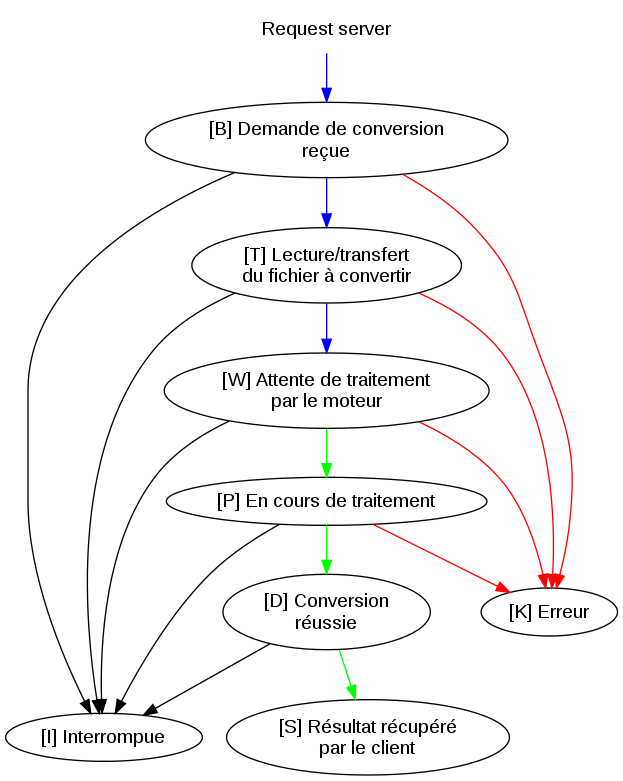
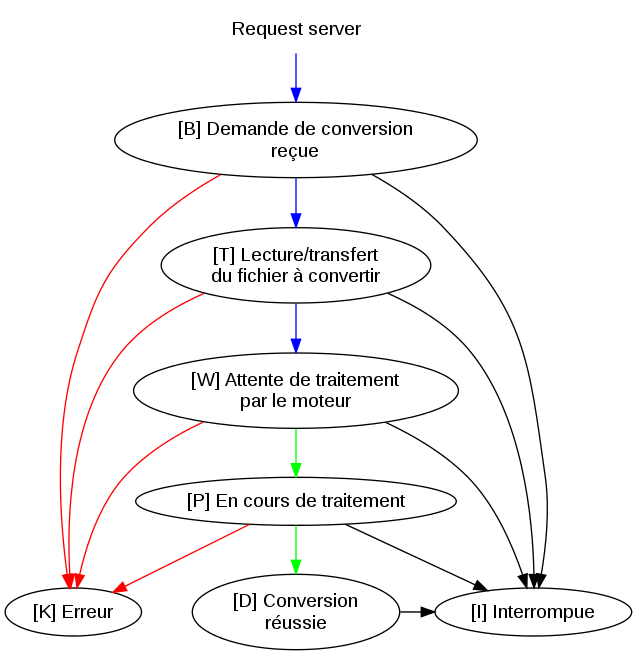
docs(TE): Document changes introduced by version 1.4.0 (refs #5374)

diff --git a/Contents/installation/configuration.md b/Contents/installation/configuration.md
@@ -21,7 +21,7 @@ Base de données
     # - - - - - - - - - - - - - - - - - -
     TE_PG_SERVICE="te"                # Postgresql database service name
 
-* `TE_PG_SERVICE` permet d'indiquer le [service d'accès à la base de données](#te-manex-ref:f6506413-f567-4b5f-b964-510570653886) *TE*
+* `TE_PG_SERVICE` : permet d'indiquer le [service d'accès à la base de données](#te-manex-ref:f6506413-f567-4b5f-b964-510570653886) *TE*
 
 Serveur de communication 
 :  
@@ -67,8 +67,13 @@ Identité pour les serveurs
     [bash]
     # -- Run TE servers as a user --
     TE_SERVER_USER=root
+    TE_SERVER_DEBUG=no
 
 * `TE_SERVER_USER` : permet de spécifier l'identité (unix user) sous laquelle les serveurs sont exécutés.
+* `TE_SERVER_DEBUG` : permet de rediriger (`yes` ou `no`) la sortie standard
+  (STDOUT) et d'erreur (STDERR) des serveurs te_request_server,
+  te_rendering_server, OpenOffice et Tika dans syslog (pour analyser les
+  éventuels problèmes de démarrage de ces services).
 
 Serveur OpenOffice.org 
 :   
@@ -77,9 +82,7 @@ Serveur OpenOffice.org
     # -- Server-mode OpenOffice.org parameters
     TE_OOO_SERVER_ENABLED=yes
     TE_OOO_BASE_DIR=/replace/me/with/path/to/openoffice.org/directory
-    TE_OOO_SERVER_PYTHON=${TE_OOO_BASE_DIR}/program/python
     TE_OOO_SERVER_SOFFICE=${TE_OOO_BASE_DIR}/program/soffice
-    TE_OOO_SERVER_UNOPKG=${TE_OOO_BASE_DIR}/program/unopkg
     TE_OOO_CLASSPATH="${TE_OOO_BASE_DIR}/program/classes/unoil.jar:${TE_OOO_BASE_DIR}/program/classes/juh.jar:${TE_OOO_BASE_DIR}/program/classes/jurt.jar:${TE_OOO_BASE_DIR}/program/classes/ridl.jar"
     TE_OOO_JVM_OPTS=""
     TE_OOO_SERVER_HOST=127.0.0.1
@@ -88,25 +91,61 @@ Serveur OpenOffice.org
 Les chemin d'accès aux fichiers OpenOffice.org sont relatifs.  
 Normalement vous ne devez que vous assurer que `TE_OOO_BASE_DIR` est correctement valué.  
 
-* `TE_OOO_BASE_DIR` : chemin d'accès au répertoire racine d'installation de OpenOffice
-* `TE_OOO_SERVER_PYTHON` : chemin d'accès à l'interpréteur Python de OpenOffice
-* `TE_OOO_SERVER_SOFFICE` : chemin d'accès au programme *soffice* de OpenOffice
-* `TE_OOO_SERVER_UNOPKG` : chemin d'accès au programme *unopkg* de OpenOffice
-* `TE_OOO_CLASSPATH` :  _classpath_ Java pour accéder aux librairies Java d'OpenOffice. Les classes nécessaires sont contenus dans `unoil.jar`, `juh.jar`, `jurt.jar` et `ridl.jar`
-* `TE_OOO_JVM_OPTS` : variable pour positionner des paramètres spécifiques pour la JVM si besoin
-* `TE_OOO_SERVER_HOST` : adresse IP d'écoute du serveur TE
-* `TE_OOO_SERVER_PORT` : port d'écoute du serveur TE
+* `TE_OOO_SERVER_ENABLED` : permet d'activer (`yes`) ou désactiver (`no`) le
+  lancement du serveur OpenOffice. Attention : cela ne désactive pas
+  l'exécution des moteurs de conversion qui utilisent OpenOffice. Ces derniers
+  seront alors mis en erreur.
 
+* `TE_OOO_BASE_DIR` : chemin d'accès au répertoire racine d'installation de
+  OpenOffice.
+
+* `TE_OOO_SERVER_SOFFICE` : chemin d'accès au programme *soffice* de
+  OpenOffice.
+
+* `TE_OOO_CLASSPATH` :  _classpath_ Java pour accéder aux librairies Java
+  d'OpenOffice. Les classes nécessaires sont contenus dans `unoil.jar`,
+  `juh.jar`, `jurt.jar` et `ridl.jar`.
+  
+  La valeur de `TE_OOO_CLASSPATH` est différente suivant que vous utilisez
+  OpenOffice ou LibreOffice :
+  
+  * Exemple de valeur pour OpenOffice :
+    
+        [bash]
+        TE_OOO_CLASSPATH="${TE_OOO_BASE_DIR}/program/classes/unoil.jar:${TE_OOO_BASE_DIR}/program/classes/juh.jar:${TE_OOO_BASE_DIR}/program/classes/jurt.jar:${TE_OOO_BASE_DIR}/program/classes/ridl.jar"
+  
+  * Exemple de valeur pour LibreOffice :
+    
+        [bash]
+        TE_OOO_CLASSPATH="${TE_OOO_BASE_DIR}/program/classes/unoil.jar:${TE_OOO_BASE_DIR}/ure/share/java/juh.jar:${TE_OOO_BASE_DIR}/ure/share/java/jurt.jar:${TE_OOO_BASE_DIR}/ure/share/java/ridl.jar"
+
+* `TE_OOO_JVM_OPTS` : variable pour positionner des paramètres spécifiques pour
+  la JVM si besoin.
+
+* `TE_OOO_SERVER_HOST` : adresse IP d'écoute du serveur OpenOffice.
+
+* `TE_OOO_SERVER_PORT` : port TCP d'écoute du serveur OpenOffice.
 
 Serveur Tika
 :   
 
     [bash]
-    # -- Tika-app Jar file
-    TIKA_APP_JAR="/replace/me/with/path/to/tika-app-#version#.jar"
+    # -- Tika-server Jar file
+    TE_TIKA_SERVER_ENABLED=yes
+    TE_TIKA_SERVER_JAR="/replace/me/with/path/to/tika-server-#version#.jar"
+    TE_TIKA_SERVER_HOST=127.0.0.1
+    TE_TIKA_SERVER_PORT=9998
+    TE_TIKA_SERVER_LOGLEVEL="" # 'debug' or 'info'
 
-* `TIKA_APP_JAR` fournit le chemin d'accès au fichier JAR Tika
-
+* `TE_TIKA_SERVER_ENABLED` : permet d'activer (`yes`) ou désactiver (`no`) le
+  lancement du serveur Tika. Attention : cela ne désactive pas l'exécution des
+  moteurs de conversion qui utilisent Tika. Ces derniers seront alors mis en
+  erreur.
+* `TE_TIKA_SERVER_JAR` : chemin d'accès au fichier JAR de Tika Server.
+* `TE_TIKA_SERVER_HOST` : adresse IP d'écoute du serveur Tika.
+* `TE_TIKA_SERVER_PORT` : port TCP d'écoute du serveur Tika.
+* `TE_TIKA_SERVER_LOGLEVEL` : loglevel spécifique du serveur Tika (à utiliser
+  conjointement avec `TE_SERVER_DEBUG=yes` décrit ci-dessus).
 
 ## Type mimes  {#te-manex-ref:3e1d421e-9cb9-48f5-8c86-dd873a970eec}
 

diff --git a/Contents/installation/prerequis.md b/Contents/installation/prerequis.md
@@ -2,38 +2,40 @@
 
 ## Logiciels {#te-manex-ref:657e8fad-93ff-4705-a32f-e9d038721082}
 
-PostgreSQL >= 9.x
+PostgreSQL &gt;= 9.x
 :   Le TE utilise la base de donnée pour stocker les informations de gestion des travaux.
     Cette base de donnée peut être locale (sur le même serveur) ou distante.
 	
-PHP >= 5.3 (cli)
+PHP &gt;= 5.3 (cli)
 :   TE est écrit en PHP et nécessite donc l'interpréteur [PHP](http://www.php.net/) (php-cli) avec les extensions suivantes :
     
-        SimpleXML
+        curl
         gettext
         json
         pcntl
         pgsql
         posix
+        SimpleXML
         xml
 
 Java Runtime Environment 6 (ou 7)
 :   TE nécessite un environnement Java 6 (ou 7) pour utiliser l'API Java d'OpenOffice en mode serveur. Il est mis à disposition soit par [OpenJDK](http://openjdk.java.net/install/) ou par [Oracle](http://www.oracle.com/technetwork/java/javase/downloads/index.html).
 
-OpenOffice 4.0
-:   TE nécessite [Apache OpenOffice](http://www.openoffice.org). La version actuellement disponible et préconisée est la `4.0.1`.
+OpenOffice (4.1.1) ou LibreOffice (4.4.0)
+:   TE nécessite [Apache OpenOffice](http://www.openoffice.org) ou
+    [LibreOffice](http://www.libreoffice.org). À la date de rédaction de ces
+    pré-requis, les dernières versions disponibles de OpenOffice (version
+    4.1.1) et LibreOffice (version 4.4.0) ont été testées et sont compatibles.
+    
+    Des différences peuvent exister dans le support et le rendu des documents
+    entre OpenOffice et LibreOffice. Le choix de l'utilisation de l'un ou
+    l'autre vous incombe donc en fonction de votre utilisation.
 
-tika-app-1.4.jar
-:   TE nécessite l'outil tika-app du projet
+tika-server-1.7.jar
+:   TE nécessite l'outil tika-server du projet
     [Apache Tika](http://tika.apache.org/) pour l'extraction de texte (voir
-    [tika-app](#tika-app)). La version actuellement disponible et préconisée
-    est la `1.4`.
-
-Xvfb
-:   TE nécessite le serveur [X virtual-frame-buffer](http://www.x.org/) (Xvfb) pour exécuter OpenOffice.
-
-xauth
-:   TE nécessite la commande `xauth` de X11/Xorg.
+    [tika-server](#tika-server)). À la date de rédaction de ces pré-requis, la
+    version actuellement disponible et préconisée est la `1.7`.
 
 a2ps et ps2pdf14
 :   TE utilise les outils `a2ps` et `ps2pdf14` pour les conversions texte vers PDF. Ils sont fournis par [a2ps](http://www.gnu.org/software/a2ps/) et [Ghostscript](http://pages.cs.wisc.edu/~ghost/).
@@ -61,11 +63,13 @@ Cette base peut être sur la machine hébergeant le serveur TE lui même ou sur 
 
 ### Créer une base `te` sur votre serveur de base de données {#te-manex-ref:517d6004-d7b9-4509-9396-e5e7ec5032a1}
 
+    [bash]
     # su postgres -c psql
     postgres=# CREATE DATABASE "te" WITH OWNER "dynacaseowner";
 
 ### Créer/ajouter le service postgresql pour l'accès à cette base `te` {#te-manex-ref:04ea62d6-2ad8-4a84-b32e-6d66fb37bafc}
 
+    [bash]
     # vi ${PGSYSCONFDIR}/pg_service.conf
     
     ...
@@ -81,6 +85,7 @@ __Note__ : La valeur de `${PGSYSCONFDIR}` est dépendante de votre distribution,
 
 ### Valider l'accès à la base de donnée `te` {#te-manex-ref:476099d1-30f0-4eff-a057-539a10bdf009}
 
+    [bash]
     # PGSERVICE=te psql
     te=# \q
 

diff --git a/Contents/installation/execution.md b/Contents/installation/execution.md
@@ -6,45 +6,51 @@
 Démarrage `ted start`
 :  
 
-Le script démarre les serveurs OpenOffice, TE (communication et transformation).
+Le script démarre les serveurs OpenOffice, Tika et TE (communication et
+transformation).
 
     [bash]
     # $TE_HOME/bin/ted start
-    Starting OOO server... 27023
-    Starting te_request_server... 27041
-    Starting te_rendering_server... 27043
-    Starting ted service:  OK
+    Starting OOO server... 9164
+    Starting Tika server... 9203
+    Starting te_request_server... 9235
+    Starting te_rendering_server... 9265
+     * Starting ted service:  OK
 
-Le script ted s'occupe de lancer les trois composants, et affiche leur PID.
+Le script ted s'occupe de lancer les quatre composants, et affiche leur PID.
 Les erreurs d'activation sont signalées sur la console de lancement.
 
-
-Démarrage `ted stop`
+Arrêt `ted stop`
 :  
 
-Le script démarre les serveurs.
+Le script arrête les serveurs TE (communication et transformation), Tika et
+OpenOffice.
 
     [bash]
     # $TE_HOME/bin/ted stop
-    Stopping te_request_server... 27041
-    Stopping te_rendrering_server... 27043
-    Stopping OOO server... 27023
+    Stopping te_request_server... 9235
+    Stopping te_rendering_server... 9265
+    Stopping Tika server... 9203
+    Stopping OOO server... 9164
      * Stopping ted service:  OK
 
-
-## Status des éléments de TE (`ted status`) {#te-manex-ref:8e25828d-711c-4162-ad5e-7b0fcc78ca4b}
+## Statut des éléments de TE (`ted status`) {#te-manex-ref:8e25828d-711c-4162-ad5e-7b0fcc78ca4b}
 
     [bash]
     # $TE_HOME/bin/ted status
-    Request server running (27041)
-    Rendering server running (27043)
-    OOO server running (27023)
+    Request server running (9449)
+    Rendering server running (9471)
+    Tika server running (9408)
+    OOO server running (9369)
 
-Le script `ted` affiche pour chacun des trois composants s'ils tournent ou non, et leur PID.
+Le script `ted` affiche pour chacun des quatre composants s'ils tournent ou
+non, et leur PID.
 
 ## Vérification des moteurs de transformation (`ted check`) {#te-manex-ref:02b9cb27-aca7-4232-8ba5-0455fa43709d}
 
-Le script `ted` permet de lancer une vérification des moteurs de transformations. Pour cela, il faut démarrer les composants (voir `ted start` ci-dessus), et ensuite exécuter la commande suivante :
+Le script `ted` permet de lancer une vérification des moteurs de
+transformations. Pour cela, il faut démarrer les composants (voir `ted start`
+ci-dessus), et ensuite exécuter la commande suivante :
 
     [bash]
     # $TE_HOME/bin/ted check
@@ -128,3 +134,4 @@ Enregistrer `ted` :
      /etc/rc3.d/S20ted -> ../init.d/ted
      /etc/rc4.d/S20ted -> ../init.d/ted
      /etc/rc5.d/S20ted -> ../init.d/ted
+

diff --git a/Contents/historique/1-4.md b/Contents/historique/1-4.md
@@ -5,14 +5,14 @@
 Dynacase Platform
 :  version 3.2
 
-Apache Tika
-:  version 1.4
+Apache Tika Server
+:  version 1.7
 
 OpenOffice.org
 :  4.0
 
 
-## Release 1.4.1 {#te-manex-ref:5df59eae-25aa-486a-913e-93c09b9cc542}
+## Release 1.4.0 {#te-manex-ref:5df59eae-25aa-486a-913e-93c09b9cc542}
 
 Point majeur de cette release, des interfaces permettant de réaliser les
 opérations de paramétrage de Platform et de surveillance de TE sont
@@ -21,4 +21,22 @@ disponibles.
 Elles sont installées dans le centre d'administration Dynacase Platform grâce
 aux modules Dynacase TEngine Configuration (disponible publiquement) ou
 Dynacase TEngine Monitor (disponible sous licence Anakeen).
+
+Cette version introduit aussi le support de Tika en mode serveur afin
+d'accélérer les conversions texte et réduire la charge serveur.
+
+### Notes de mise à jour depuis la version 1.3.4
+
+La version `1.4.0` introduit l'utilisation de Tika en mode serveur.
+
+Après avoir installé la nouvelle version de TE, les modifications suivantes
+sont à faire :
+
+* Installer `tika-server-<version>.jar` : voir [Installation de
+  tika-server](#tika-server).
+* Configurer les variables `TE_TIKA_SERVER_*` dans `etc/te.conf` : voir
+  [Configuration serveur Tika](#te-manex-ref:0260dfe8-d1c9-40c8-b2ba-666988ae4c09).
+* Redémarrer TE pour lancer le nouveau serveur Tika.
+* Supprimer le fichier `$TE_HOME/lib/engines/te-xvfb-server`.
+* Supprimer le fichier `$TE_HOME/lib/engines/tika-app-<version>.jar`.
 

diff --git a/Contents/installation/installation.md b/Contents/installation/installation.md
@@ -51,23 +51,18 @@ dans [les notes de version][release_note].
 
 Installer OpenOffice à partir des paquets officiels [OpenOffice](http://www.openoffice.org/).
 
-### tika-app {#tika-app}
+### tika-server {#tika-server}
 
-L'archive `tika-app-<version>.jar` peut être obtenue en compilant les sources
-de [Apache Tika](http://tika.apache.org/download.html), ou bien sous forme
-précompilée sur notre dépôt *third-party* :
-[Tika](http://ftp.dynacase.org/third-party/tika-app-<version>.jar)
+L'archive `tika-server-<version>.jar` peut être obtenue en téléchargement sur
+le site officiel de [Apache Tika](http://tika.apache.org/download.html), ou
+bien sur notre dépôt *third-party* :
+[tika-server-1.7.jar](http://ftp.dynacase.org/third-party/tika-server-1.7.jar)
 
-La compilation de `tika-<version>-src.zip` avec maven (`mvn`) peut nécessiter l'augmentation des limites mémoire de la JVM :
-
-    [bash]
-    $ cd tika-<version>
-    $ MAVEN_OPTS=-Xmx2048m mvn -e clean install
-
-L'archive JAR de `tika-app` doit ensuite être déposée dans le sous-répertoire `$TE_HOME/lib/engines` :
+L'archive JAR de `tika-server` doit ensuite être déposée dans le
+sous-répertoire `$TE_HOME/lib/engines` :
 
     [bash]
-    # cp tika-app/target/tika-app-<version>.jar $TE_HOME/lib/engines/
+    # cp /tmp/tika-server-<version>.jar $TE_HOME/lib/engines/
 
 <!-- links -->
 [release_notes]: #te-manex-ref:da01abb1-163e-434f-b56c-eb918c479cb9

diff --git a/Contents/programmation/_introduction.md b/Contents/programmation/_introduction.md
@@ -96,8 +96,7 @@ La communication entre Dynacase et le Request server permet au client de :
       status `P`.
     * Si la conversion est réussie, la tâche passe à l'état `D` (Done) et
       Dynacase est notifié via l'URL de callback.
-    * Lorsque Dynacase a récupéré le résultat, alors la tâche passe dans l'état
-      `S` (Sent).
+    * Lorsque Dynacase a récupéré le résultat, alors la tâche est supprimée.
     * Si la tâche est en erreur, son statut est positionné à `K` (Knockout).
     * Si la tâche est interrompue, son statut est positionné à `I` (Interrupted).
 
